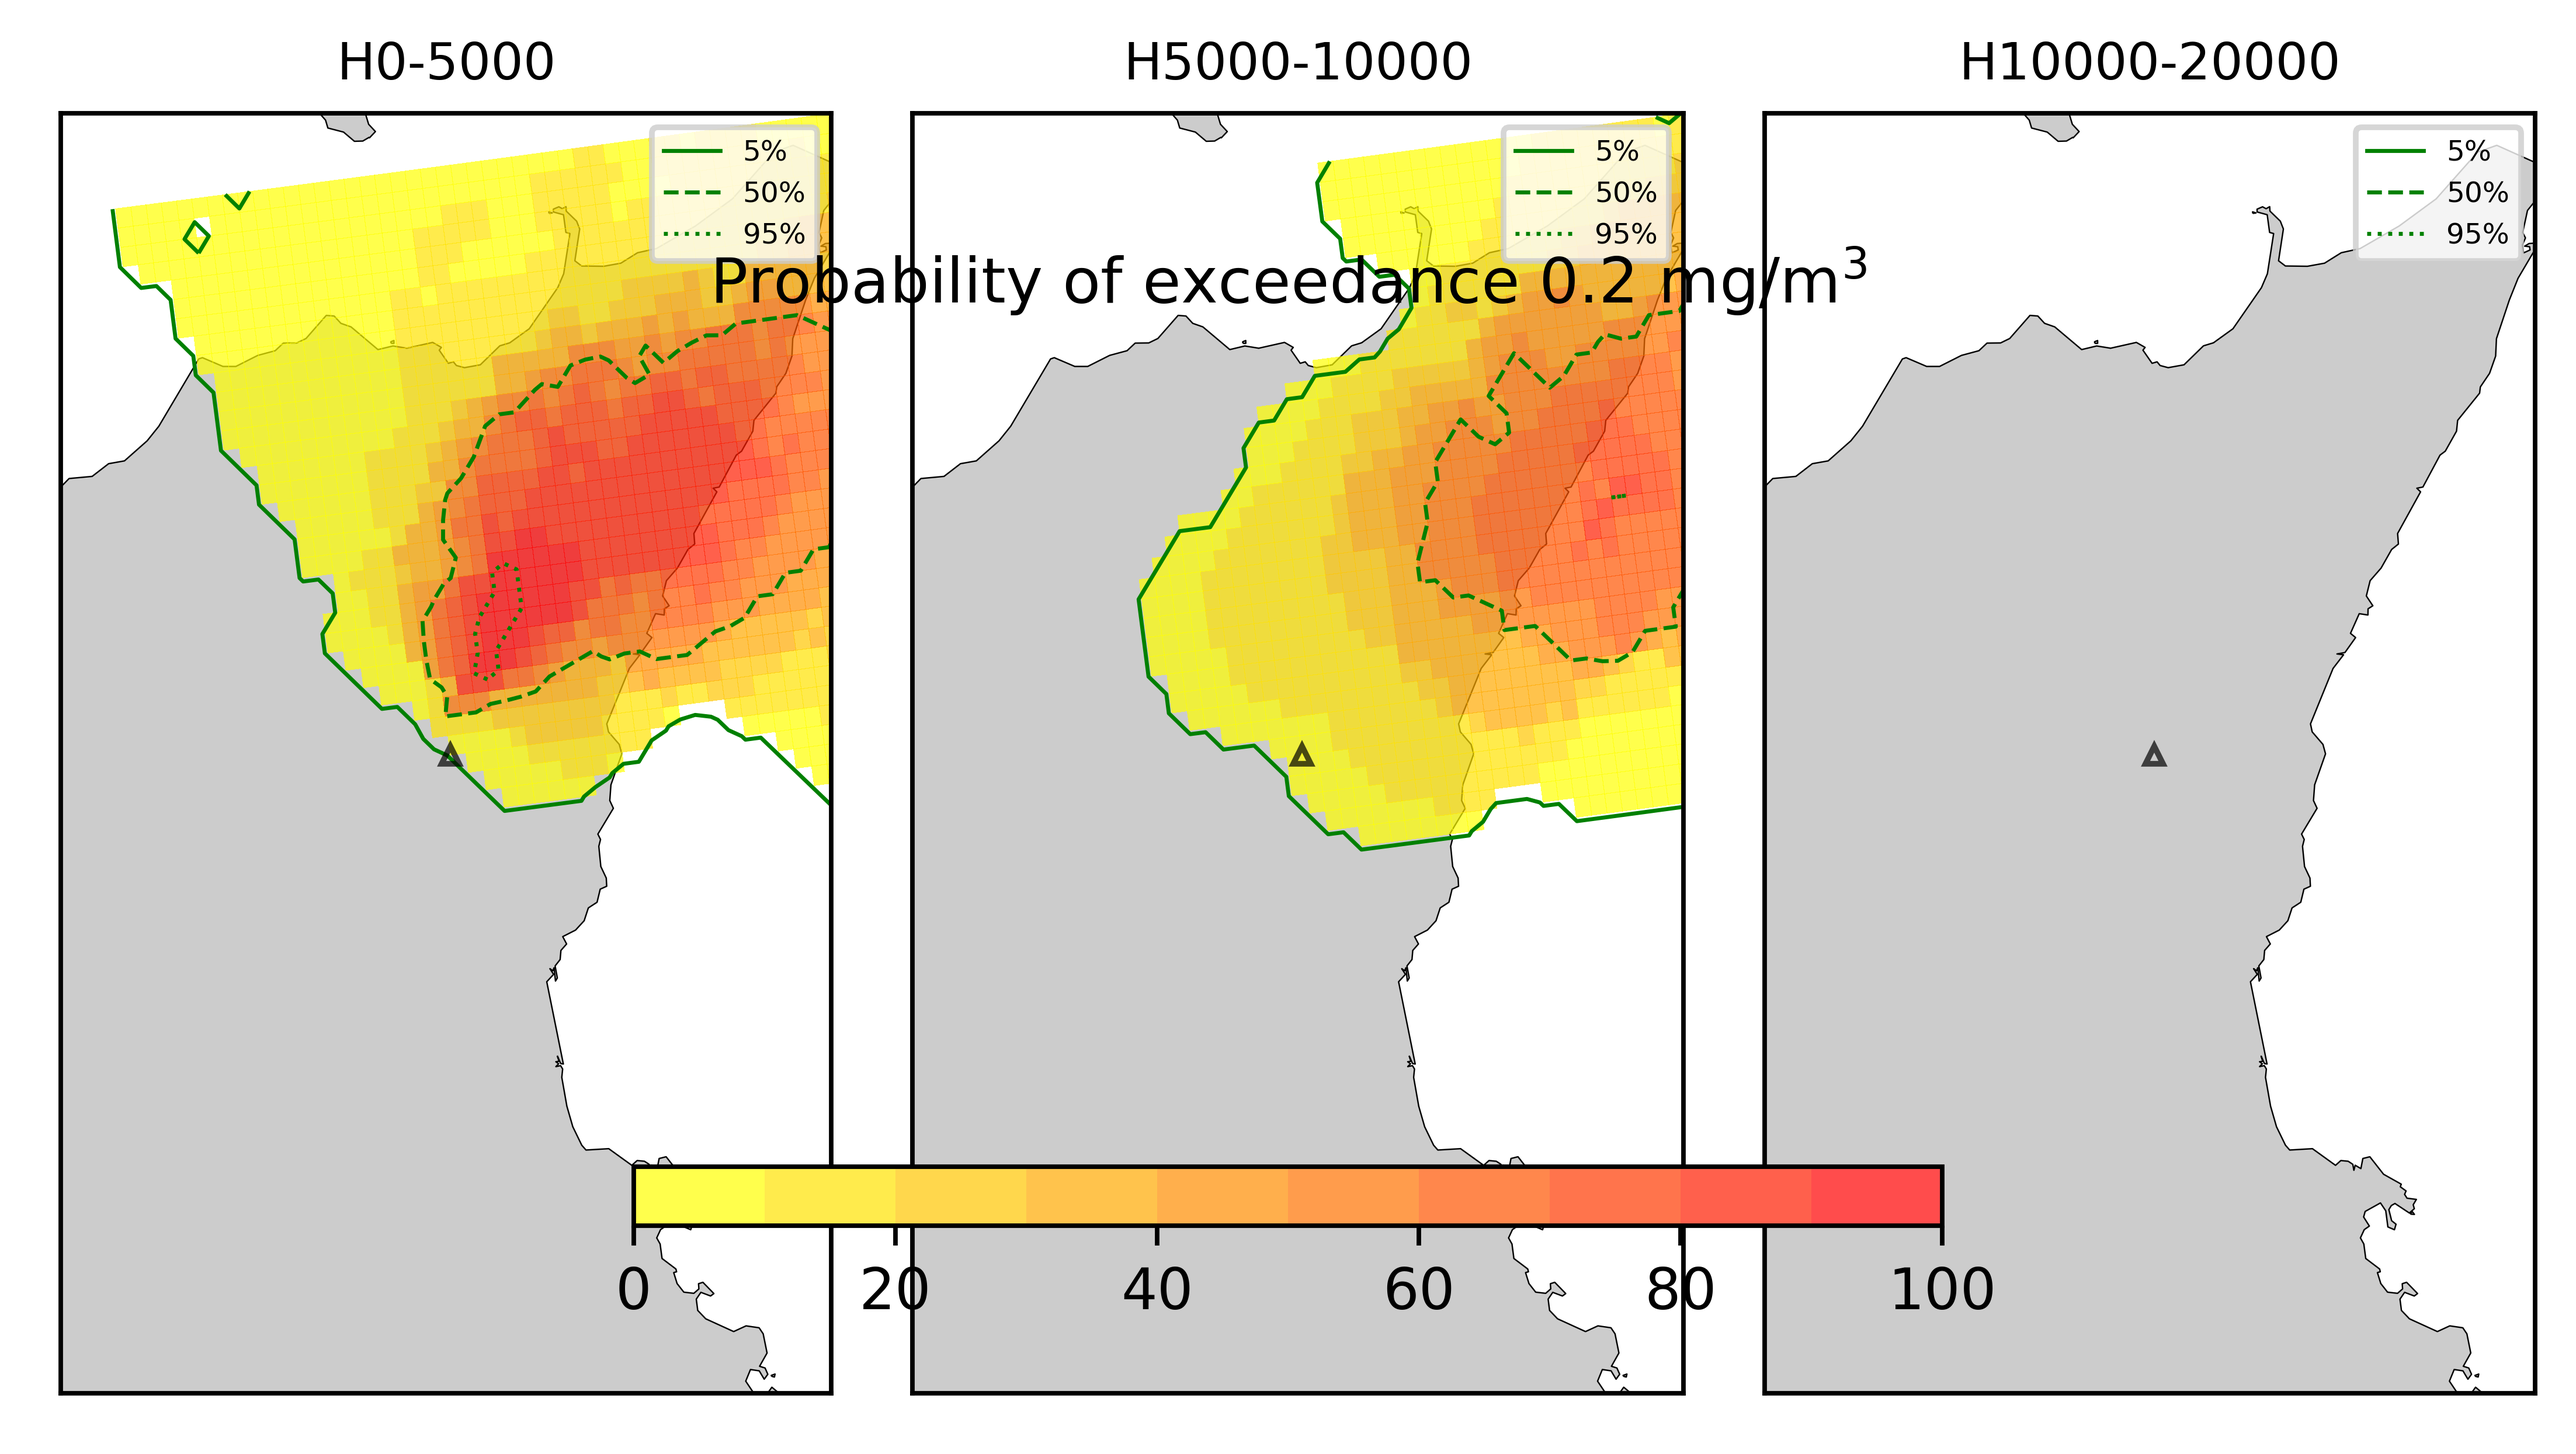
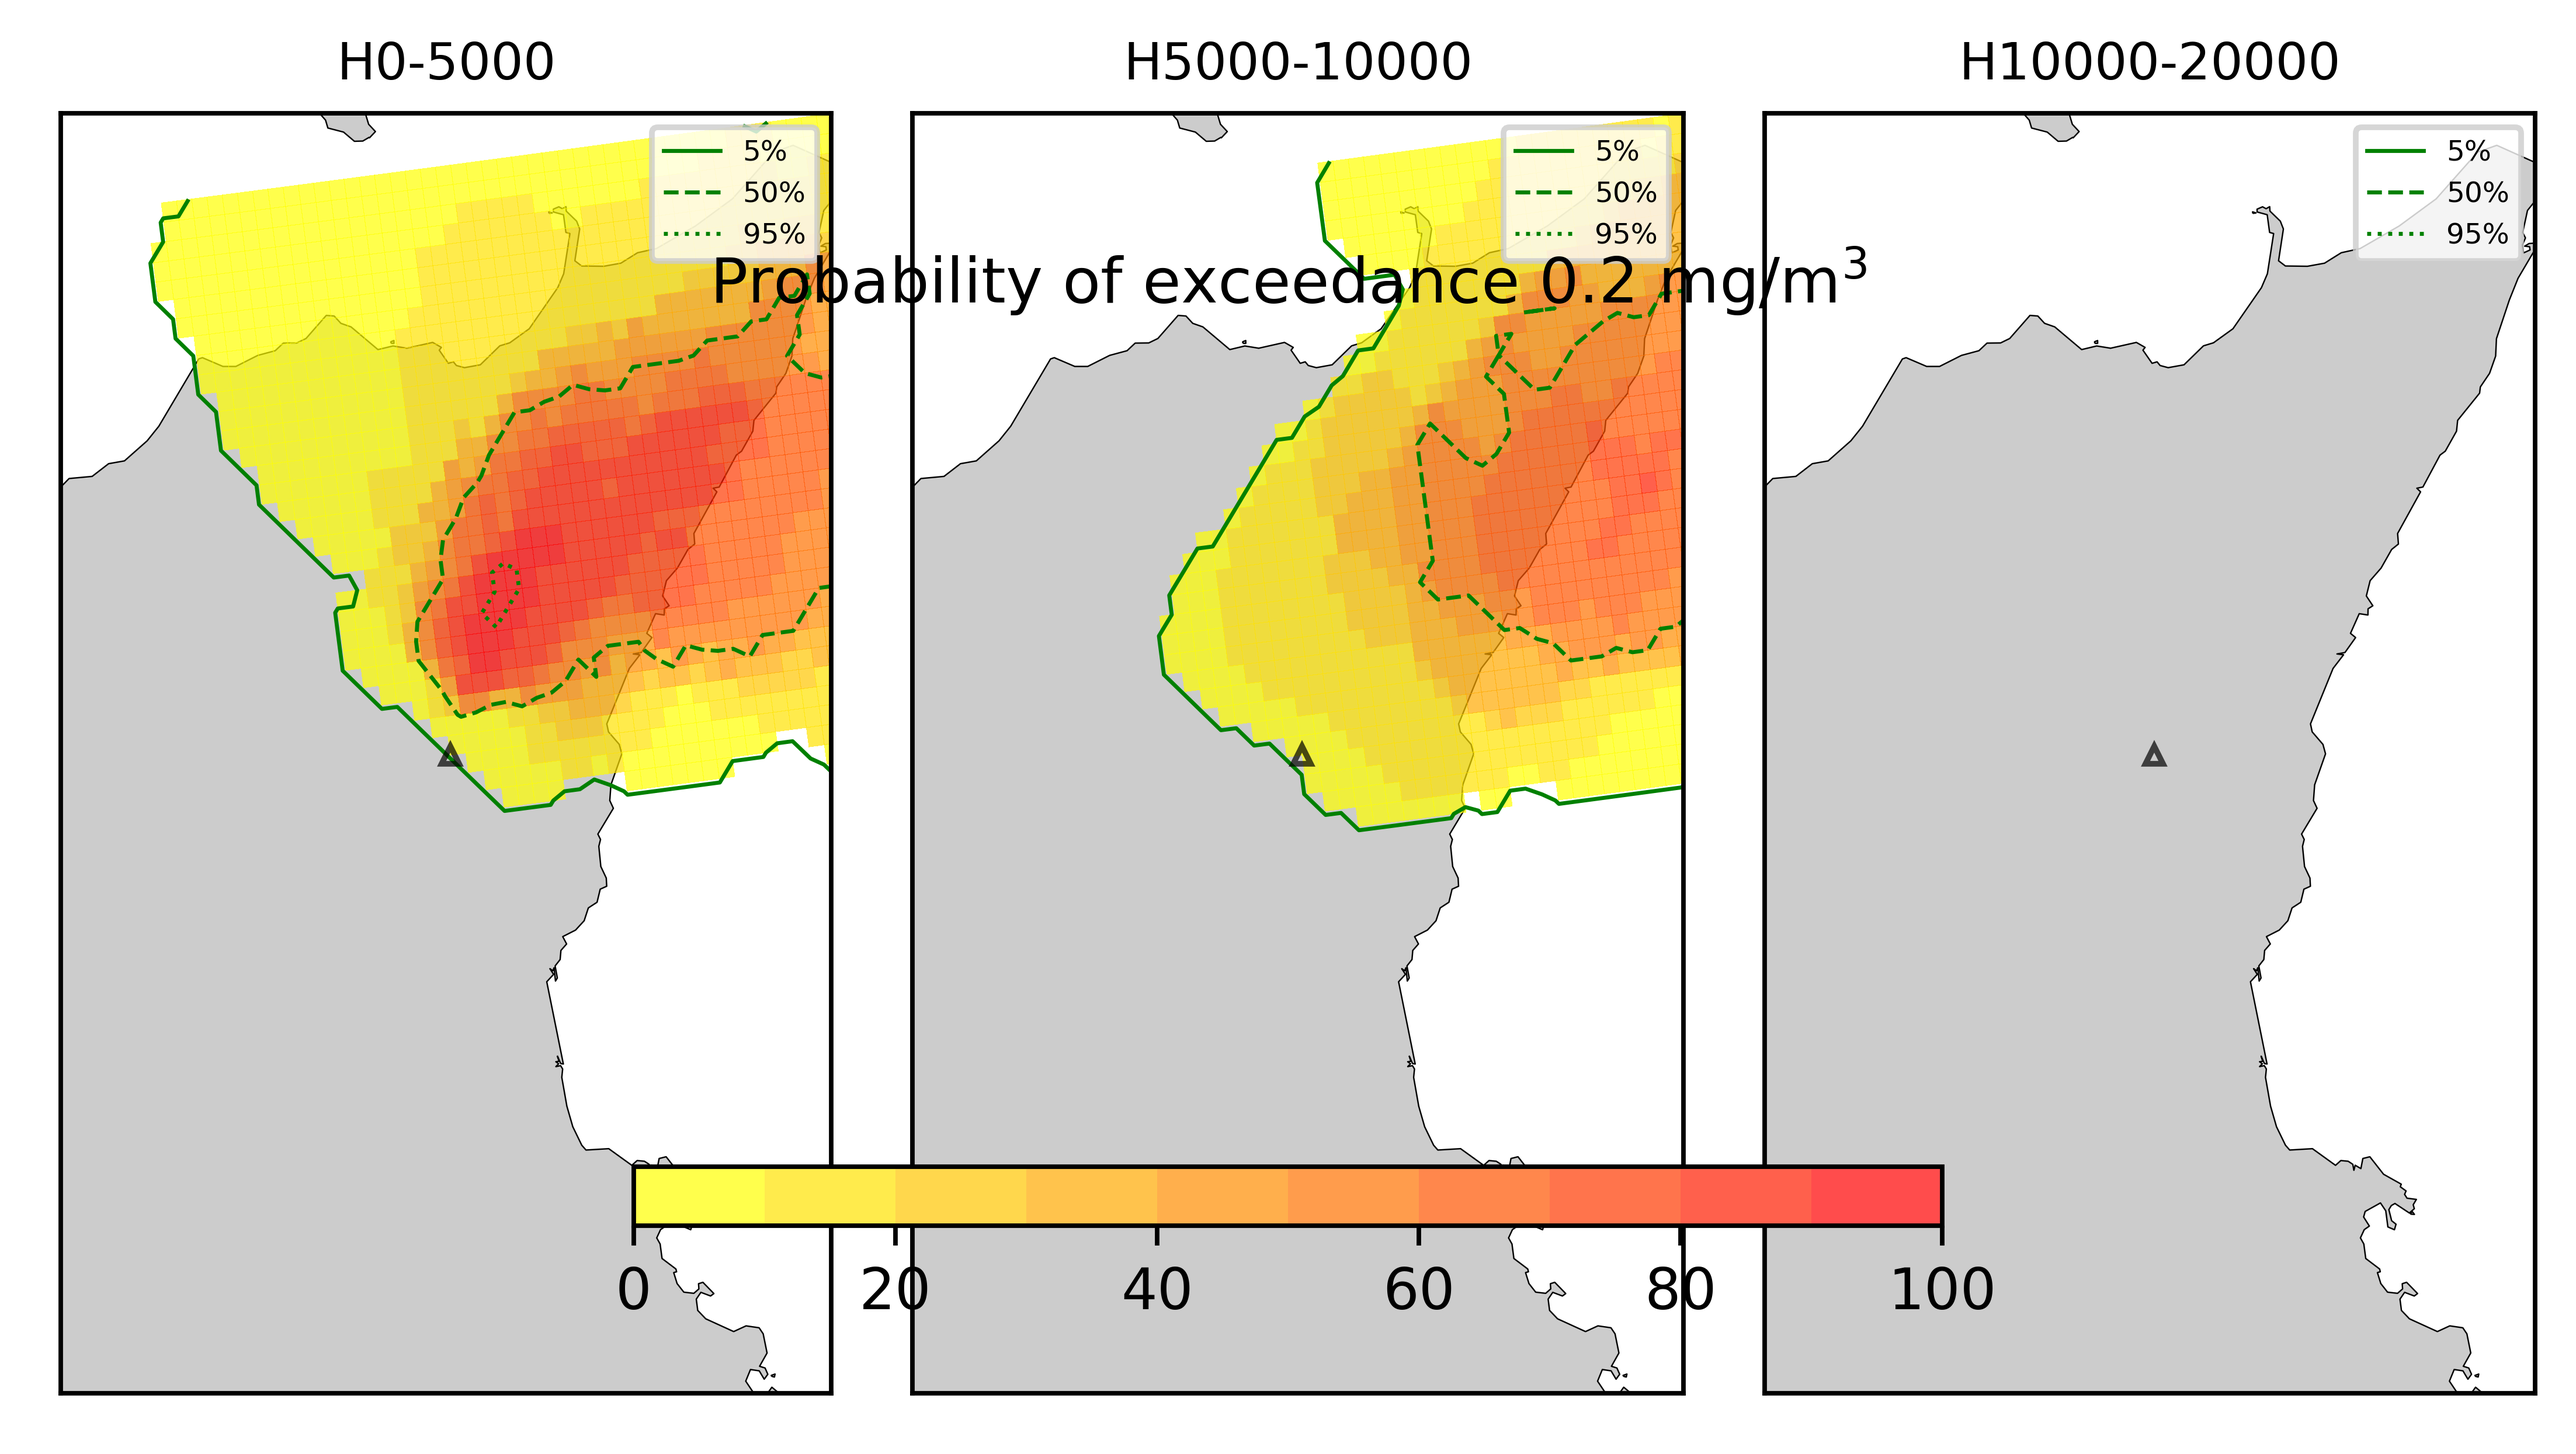
upload results

diff --git a/FORECAST_RESULTS/20210304_0228Z/README.md b/FORECAST_RESULTS/20210304_0228Z/README.md
@@ -29,6 +29,7 @@ Contents
 	* [Forecast at 2021-03-04 11:20 Z from ORANGE VONA issued at 20210304_0817Z](#forecast-at-2021-03-04-1120-z-from-orange-vona-issued-at-20210304_0817z)
 	* [Forecast at 2021-03-04 11:20 Z from ORANGE VONA issued at 20210304_0817Z](#forecast-at-2021-03-04-1120-z-from-orange-vona-issued-at-20210304_0817z)
 	* [Forecast at 2021-03-04 14:20 Z from ORANGE VONA issued at 20210304_0817Z](#forecast-at-2021-03-04-1420-z-from-orange-vona-issued-at-20210304_0817z)
+	* [Forecast at 2021-03-04 11:20 Z from ORANGE VONA issued at 20210304_0817Z](#forecast-at-2021-03-04-1120-z-from-orange-vona-issued-at-20210304_0817z)
 
 # Forecast products
 
@@ -1403,6 +1404,66 @@ Contents
   
 
 ### Atmosphere 2021-03-04 14:20 Z
+
+## Forecast at 2021-03-04 11:20 Z from ORANGE VONA issued at 20210304_0817Z
   
+
+|Eruption start [Z]|Eruption end [Z]|Forecast time [Z]|Column height asl [m]|
+| :--- | :--- | :--- | :--- |
+|2021-03-04 02:30:00|2021-03-04 10:20:00|2021-03-04 11:20:00|11000.0 ± 500 - from VONA|
+  
+  
+
+|Percentile|MER [kg/s¹]|Mass air [kg]|Mass air nested dom. [kg]|Mass grd [kg]|Mass grd nested dom. [kg]|
+| :--- | :--- | :--- | :--- | :--- | :--- |
+|5th|2.65e+05|2.08e+09|1.20e+09|1.20e+07|1.21e+07|
+|50th|7.86e+05|5.17e+09|2.61e+09|4.25e+08|4.25e+08|
+|95th|2.72e+06|1.24e+10|4.54e+09|2.73e+09|2.65e+09|
+  
+
+### Ground Nested Domain 2021-03-04 11:20 Z
+  
+![](./figures/probability_grd_2021_03_04_1120_grid_1_1001.png)  
+  
+  
+  
+  
+  
+  
+  
+  
+  
+  
+  
+  
+  
+  
+  
+  
+
+|Location|Ground load [kg/m²] 5th perc|Ground load [kg/m²] 50th perc|Ground load [kg/m²] 95th perc|
+| :--- | :--- | :--- | :--- |
+|Piano Provenzana (1)|1.45e-02|1.76e+00|7.13e+00|
+|Bivio Provenzana-Linguaglossa (2)|5.87e-03|1.56e+00|7.92e+00|
+|Cunetta pre-Citelli (3)|5.81e-03|6.58e-01|8.25e+00|
+|Chalet (4)|1.60e-03|1.45e+00|7.67e+00|
+|Ragabo (5)|1.47e-03|1.66e+00|7.54e+00|
+|Scilio (6)|3.43e-04|3.01e-01|6.92e+00|
+|Gambino vini (7)|4.27e-04|2.43e-01|8.00e+00|
+|StazioneFce Linguaglossa (8)|2.60e-04|4.41e-01|5.54e+00|
+|Linguaglossa Via Olivio Sozzi (9)|2.46e-04|4.89e-01|5.12e+00|
+|Cim.Linguaglossa (10)|2.60e-04|2.56e-01|6.30e+00|
+|Gole Bar (11)|3.40e-05|2.32e-01|2.24e+00|
+|Francavilla - Orange (12)|3.77e-05|5.86e-02|1.39e+00|
+|Roccalumera1 (13)|0.00e+00|8.75e-03|9.85e-02|
+|Roccalumera2 (14)|0.00e+00|1.24e-02|1.01e-01|
+|Nizza (15)|0.00e+00|7.46e-03|1.05e-01|
+|Scaletta Zanclea (16)|0.00e+00|7.43e-06|4.99e-02|
+|Alì (17)|0.00e+00|5.56e-04|9.74e-02|
+  
+
+### Atmosphere 2021-03-04 11:20 Z
+  
+![](./figures/probability_air_2021_03_04_1120_grid_2_conclev_1_1001.png)  
 Go to [Supplementary page](Supplementary_page.md)  
 Go to [Main directory](https://github.com/federicapardini/Real_time_ash_forecast)
